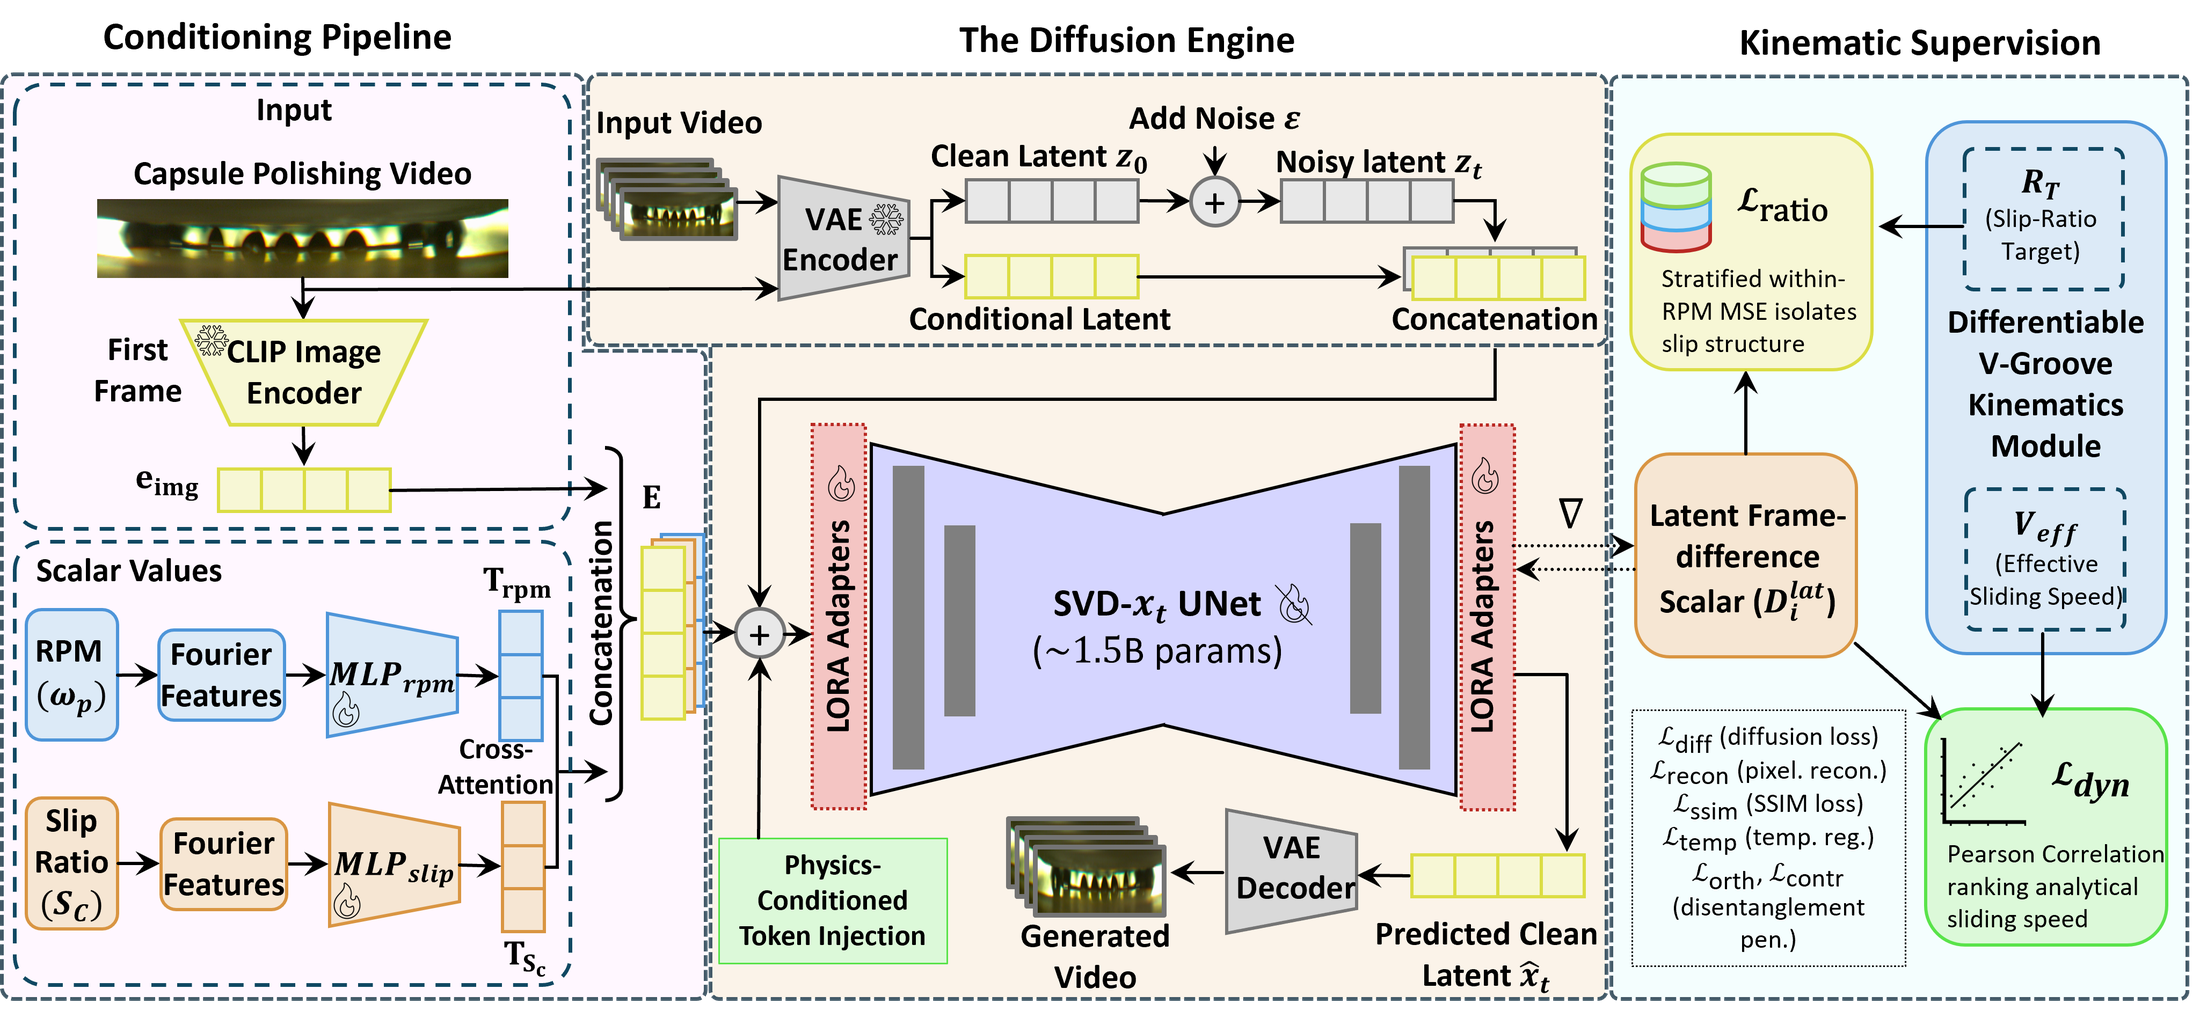
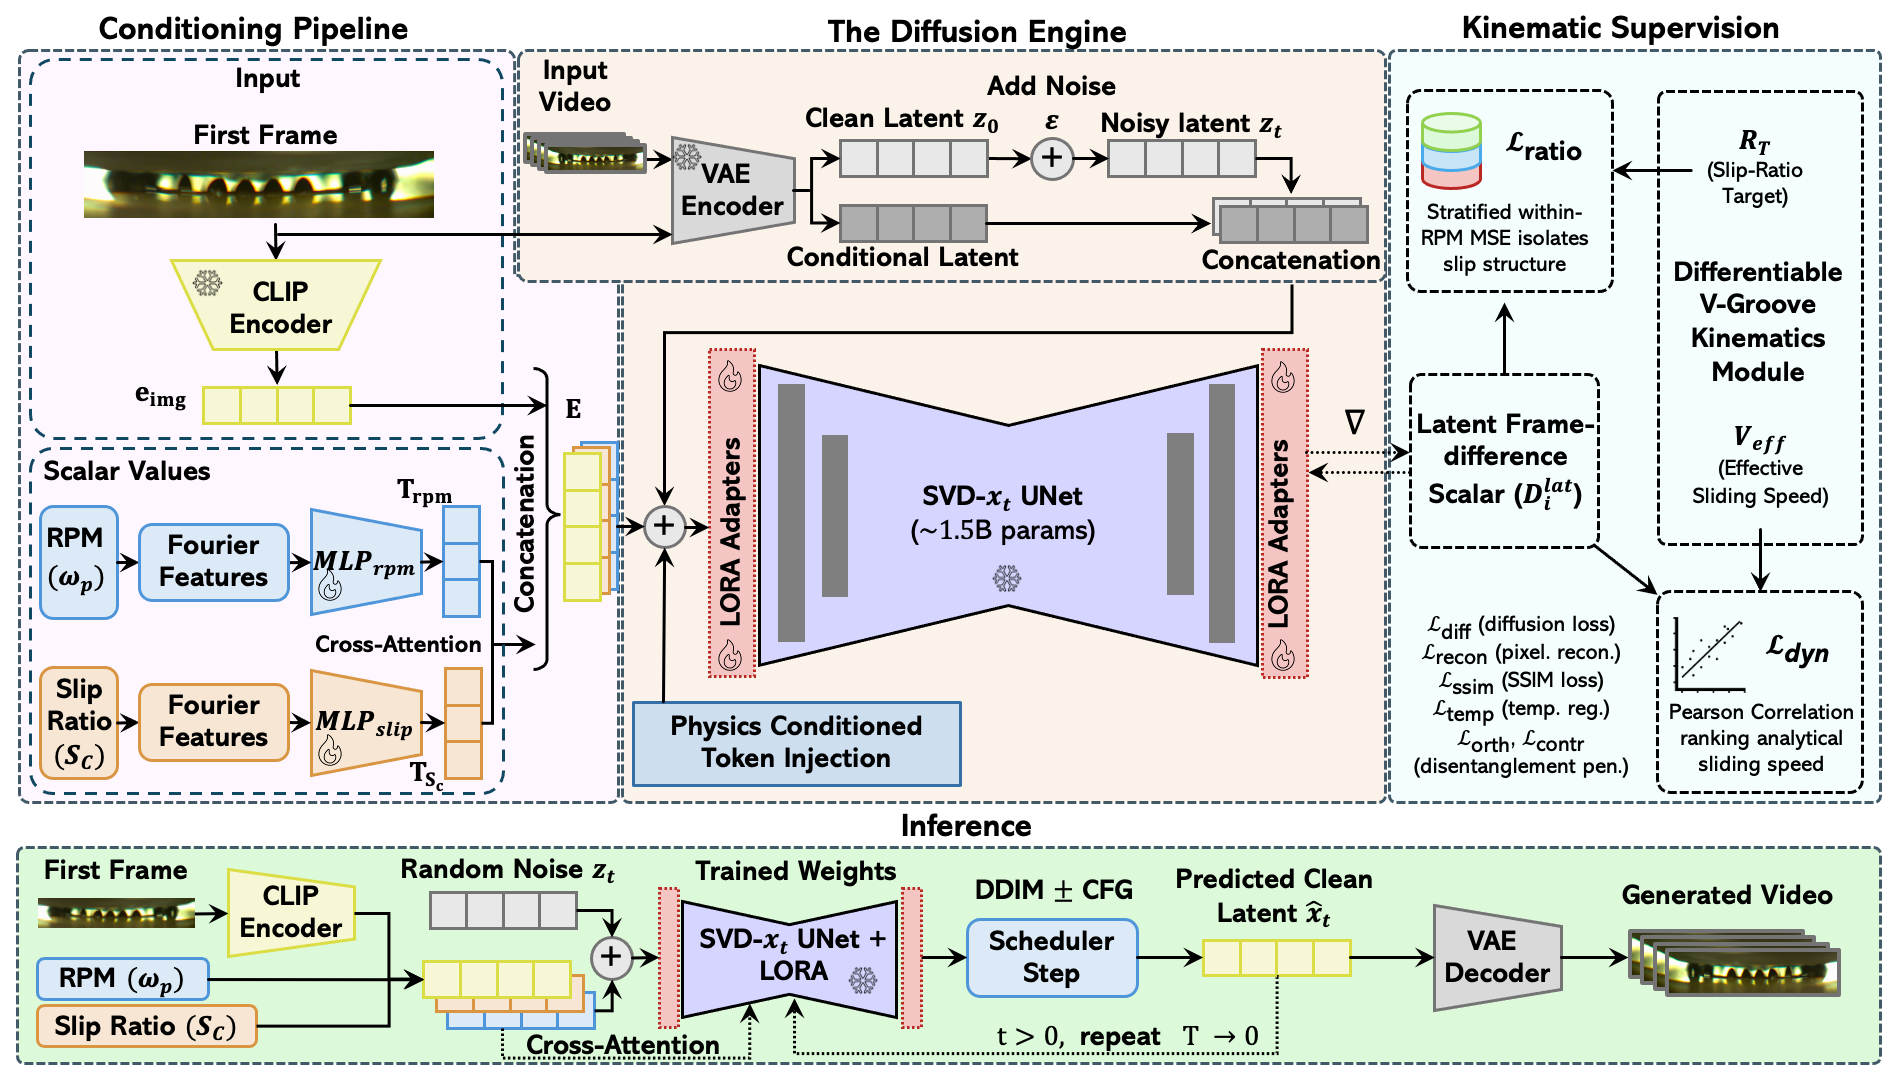
Update architecture, evaluation, and kinematics figures; add Inference stage to stepper
Replaces methodology.png, slip_evaluation.png, and polishing_schematics.png with
refreshed diagrams. The methodology figure now includes an inference row that was
previously missing. Since the stepper reveal only swept horizontally across one
image, a 4th stage sitting below the top three panels couldn't be isolated as its
own stage, so the reveal now clips to the top band for stages 1-3 and reveals the
full image (including Inference) on stage 4. Aspect ratio and sweep breakpoints
are recalibrated for the new image's proportions.

diff --git a/index.html b/index.html
@@ -150,12 +150,14 @@
       Applying and evaluating them for a real industrial process with no available simulator is the contribution.
     </p>
     <div class="stepper reveal" id="method-stepper"
-         data-steps='[27,73.5,100]'
-         data-titles='["Input","Diffusion core","Kinematic losses"]'
+         data-steps='[33,74,100,100]'
+         data-band='78.3'
+         data-titles='["Input","Diffusion core","Kinematic losses","Inference"]'
          data-captions='[
            "A polishing video and the requested operating scalars (RPM, slip ratio) enter the model. The first frame is encoded by a frozen CLIP image encoder; each scalar is Fourier-encoded and projected by a small MLP into a token.",
-           "SVD-xt is frozen (gray); only the LoRA adapters and the Fourier physics encoder (blue) are trained. The physics tokens enter every cross-attention layer, conditioning the denoised latent on the requested speed and slip before the VAE decodes it back to video.",
-           "The predicted clean latent yields a frame-difference scalar, compared against the analytical sliding speed and slip ratio from the differentiable V-groove kinematics. Together L_dyn and L_ratio push the generated dynamics toward the requested physics."
+           "SVD-xt is frozen (gray); only the LoRA adapters and the Fourier physics encoder (blue) are trained. The physics tokens enter every cross-attention layer, conditioning the denoised latent on the requested speed and slip. Training ends at the predicted clean latent; nothing is decoded to pixels yet.",
+           "The predicted clean latent yields a frame-difference scalar, compared against the analytical sliding speed and slip ratio from the differentiable V-groove kinematics. Together L_dyn and L_ratio push the generated dynamics toward the requested physics.",
+           "At inference there is no target clip. Starting from random noise, the same frozen encoders and trained adapters are reused to build the conditioning once, and the UNet alternates with the sampling scheduler for the DDIM steps. Only the final latent is decoded by the frozen VAE, once, into the generated video."
          ]'>
       <div class="stepper-frame">
         <div class="layer layer-bg"><img src="assets/img/methodology.png" alt="" aria-hidden="true"></div>

diff --git a/script.js b/script.js
@@ -110,6 +110,10 @@
     var steps = JSON.parse(root.dataset.steps);
     var titles = JSON.parse(root.dataset.titles);
     var captions = JSON.parse(root.dataset.captions);
+    // Optional: % of the image height occupied by the main (top) diagram band.
+    // When set, the final step reveals the remaining band below it (e.g. an
+    // "Inference" row) instead of just sweeping further right.
+    var band = root.dataset.band ? parseFloat(root.dataset.band) : null;
 
     var frame = root.querySelector(".stepper-frame");
     var dotsWrap = document.getElementById("stepper-dots");
@@ -136,8 +140,16 @@
     function setStep(i) {
       current = ((i % steps.length) + steps.length) % steps.length;
       var pct = steps[current];
+      var isLast = current === steps.length - 1;
       frame.style.setProperty("--hide", (100 - pct) + "%");
       frame.style.setProperty("--edge", pct + "%");
+      if (band !== null) {
+        // Sweep left-to-right within the top band for every step except the
+        // last, which also reveals the band below (e.g. Inference) in full.
+        var bandPct = isLast ? 100 : band;
+        var clip = "polygon(0% 0%, " + pct + "% 0%, " + pct + "% " + bandPct + "%, 0% " + bandPct + "%)";
+        frame.style.setProperty("--clip", clip);
+      }
       captionEl.textContent = captions[current];
       Array.prototype.forEach.call(dotsWrap.children, function (el, idx) {
         el.classList.toggle("active", idx === current);

diff --git a/style.css b/style.css
@@ -416,12 +416,12 @@ figcaption {
 .stepper-frame {
   position: relative;
   width: 100%;
-  /* padding-top intrinsic-ratio fallback (1018/2200) for browsers without
+  /* padding-top intrinsic-ratio fallback (1080/1882) for browsers without
      aspect-ratio support; aspect-ratio below overrides it where supported.
      Without one of these, the two position:absolute image layers inside
      contribute no height at all and the whole frame collapses to 0px. */
-  padding-top: 46.2727%;
-  aspect-ratio: 2200 / 1018;
+  padding-top: 57.3858%;
+  aspect-ratio: 1882 / 1080;
   border-radius: 10px;
   overflow: hidden;
   border: 1px solid var(--border);
@@ -447,7 +447,10 @@ figcaption {
   opacity: .32;
 }
 .stepper-frame .layer-fg {
-  clip-path: inset(0 var(--hide, 0%) 0 0);
+  /* Default: plain left-to-right reveal. The stepper JS overrides this with
+     a polygon() clip when the figure has a separate band (e.g. an Inference
+     row below the main diagram) that shouldn't appear until its own stage. */
+  clip-path: var(--clip, inset(0 var(--hide, 0%) 0 0));
   transition: clip-path .85s cubic-bezier(.65,0,.35,1);
 }
 .stepper-frame .sweep-edge {
